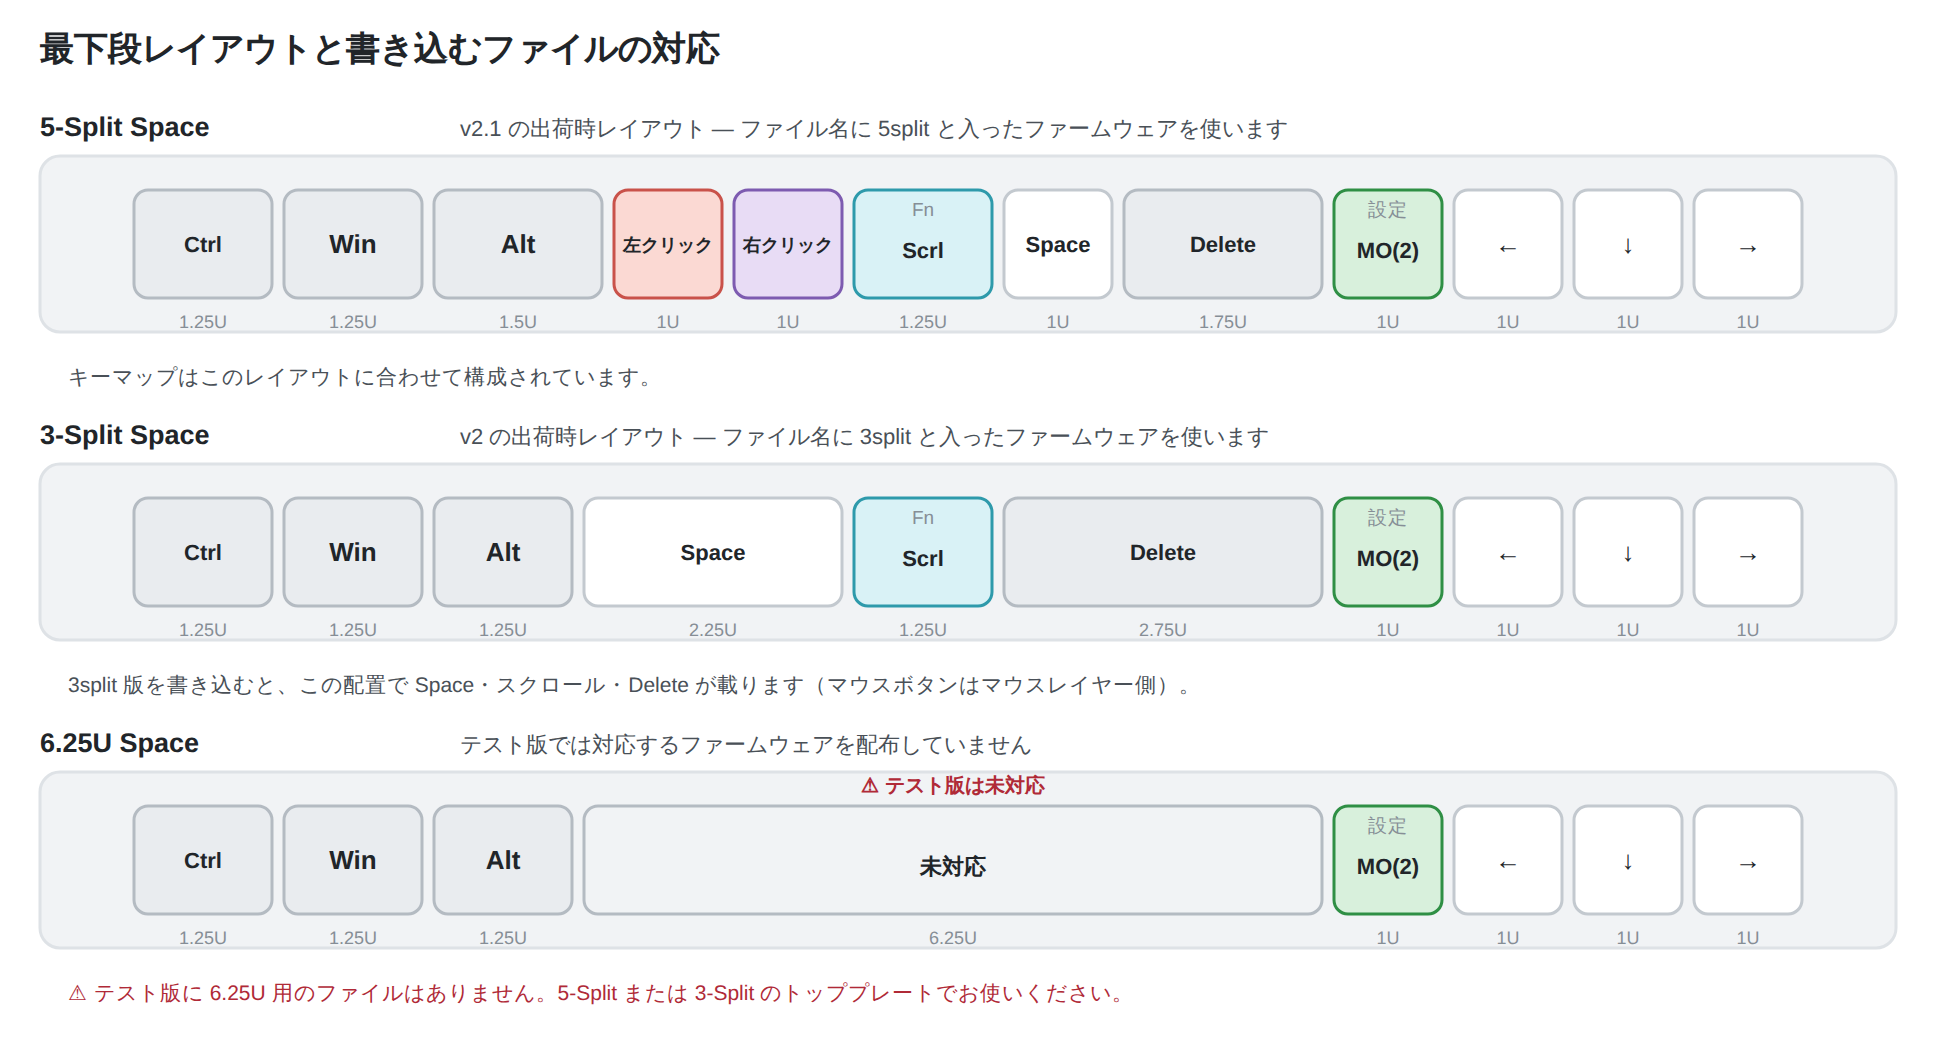
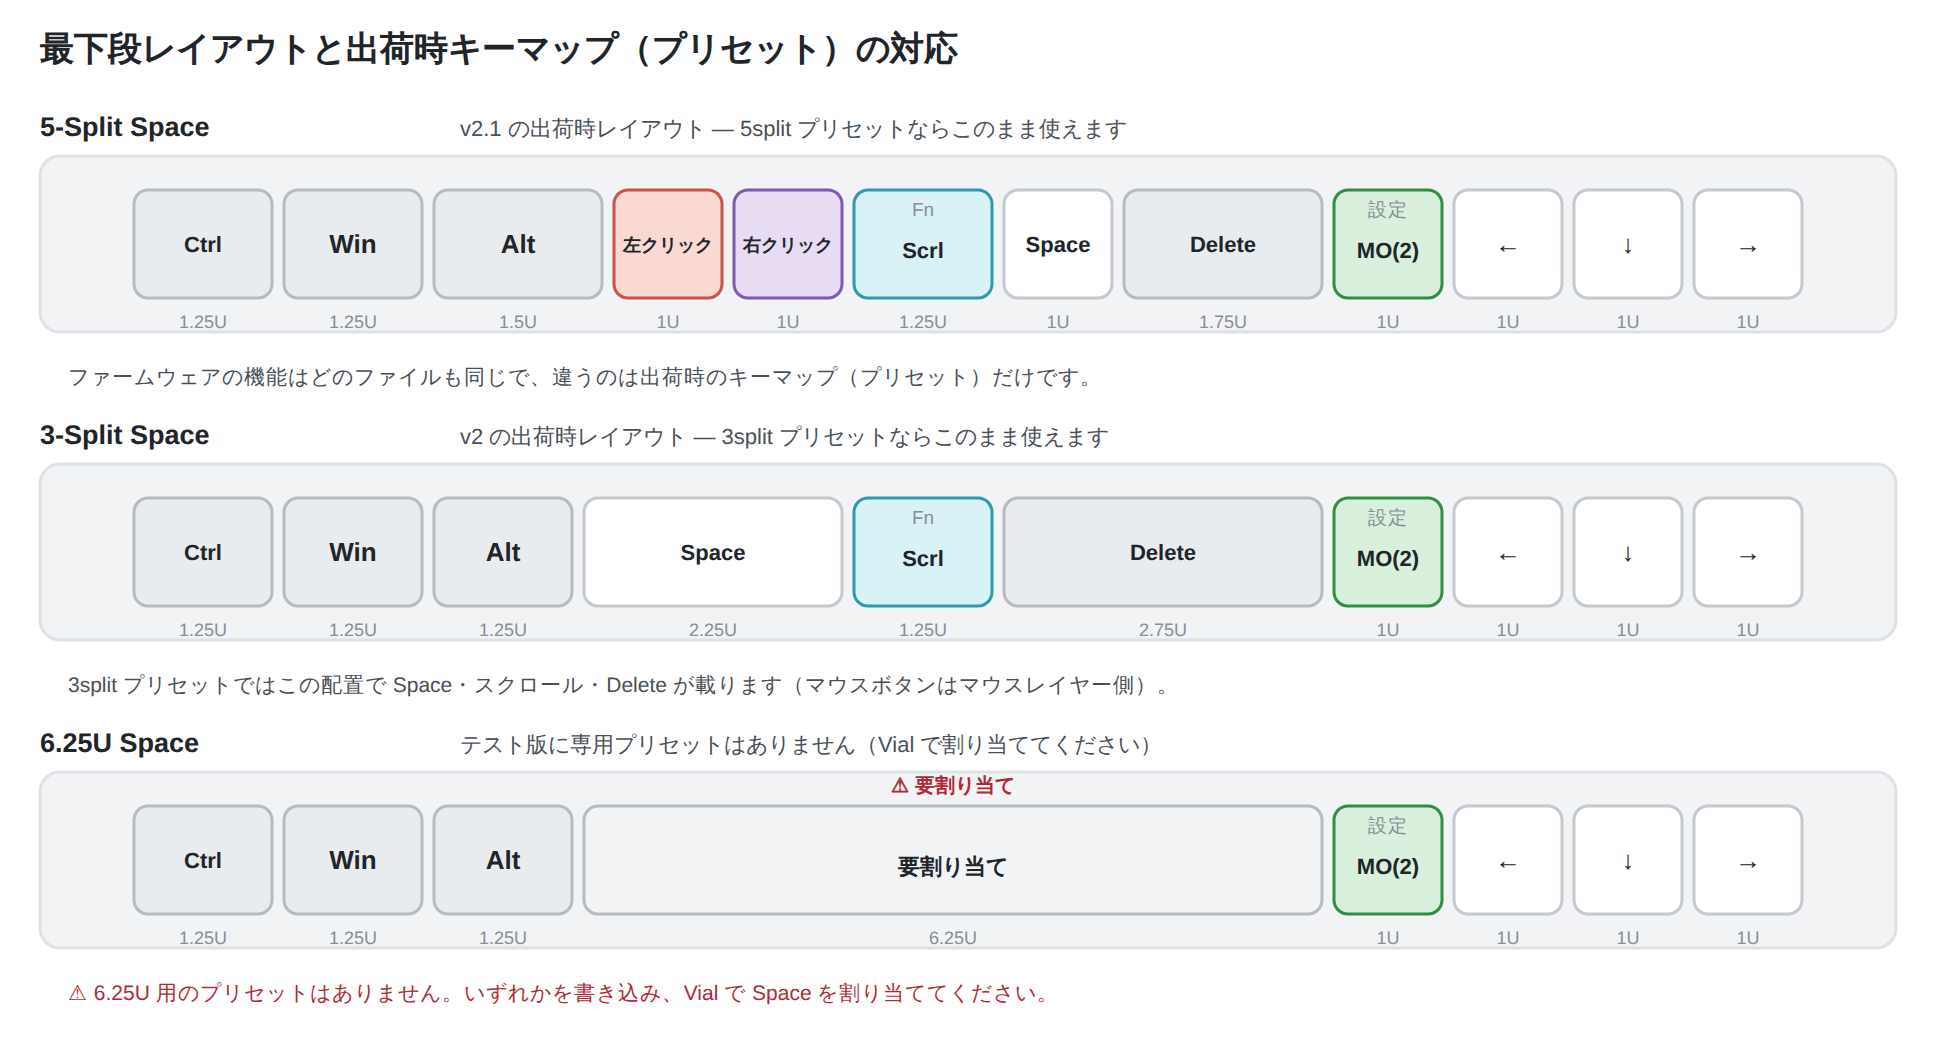
docs: describe the two files as presets, not layout-specific firmware
Saying the space row "is decided by the file you flash" and warning about
mixing them up reads as though each plate needs its own firmware. It does not:
the builds are the same firmware with two default keymaps, offered so each
plate works untouched, and either one can be remapped in Vial at any time.
Reword every place that framed it as a per-layout build, and say what actually
happens with a mismatched preset and how to fix it without reflashing.

Claude-Session: https://claude.ai/code/session_01EcW3vMj6dHMbdMvSbQogaq

diff --git a/firmware/README.md b/firmware/README.md
@@ -13,18 +13,24 @@
 
 ## どのファイルを書き込むか
 
-テスト版は **Vial 版**を 2 種類配布しています。**お使いのキーボードのスペース列に合うもの**を 1 つ選んでください。
+**ファームウェアの機能はどちらも同じです。**配布ファイルが 2 つあるのは、
+**出荷時のキーマップ（プリセット）**が 2 通りあるためで、スペース列ごとに
+「書き込んだらそのまま使える」配置を用意しています。
 
-| お使いのスペース列 | 書き込むファイル |
+| お使いのスペース列 | そのまま使えるプリセット |
 |---|---|
 | **5 分割**（v2.1 の出荷時） | `OLSK60_v2_firmware_v<バージョン>_Vial_5split.uf2` |
 | **3 分割** | `OLSK60_v2_firmware_v<バージョン>_Vial_3split.uf2` |
 
-**スペース列が違うファイルを書き込むと、スペースキーが打てないなどキー配置がずれます。**
-書き込む前に、ファイル名の `5split` / `3split` を必ずご確認ください。
+**どちらを書き込んでも動作します。**キー配置は Vial でいつでも変更できるので、
+あとから好みに合わせて割り当て直すこともできます。
 
-> 従来版と違い、**スペース列は書き込むファイルで決まります**。設定ツール側のレイアウト選択は
-> 画面表示の切り替えで、打鍵の割り当ては変わりません。
+> **プリセットが合っていないとどうなるか:** 例えば 3 分割のキーボードに 5 分割用の
+> プリセットを書き込むと、Space が物理キーの無い位置に載るため、そのままでは Space が
+> 打てません。**Vial で押せる位置に割り当て直せば、そのまま使えます。** 手間を省きたい
+>場合は、最初からお使いのスペース列に合うプリセットを選んでください。
+>
+> 設定ツール側のレイアウト選択は画面表示の切り替えで、打鍵の割り当ては変わりません。
 
 ### 設定ツール
 
@@ -64,7 +70,7 @@
 ## テスト版の主な変更点
 
 - **設定ツールは Vial のみ**になりました（Remap / VIA 非対応）。
-- **スペース列ごとにファイルが分かれました**（上記）。
+- **スペース列ごとに出荷時キーマップ（プリセット）を用意しました**（上記）。機能の違いはありません。
 - **同時に押せるキーは 6 キーまで**です。
 - **トラックポイントのスクロールが滑らかになりました。** 1 ノッチより細かい単位で送るため、
   ゆっくり動かしたときの追従が改善します。強く押すほど速く進む調整も既定で有効です
